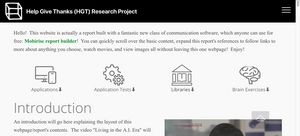
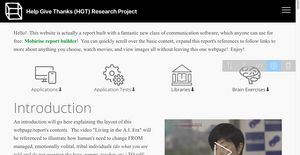
Finalization of initial website Part4

diff --git a/index.html b/index.html
@@ -29,7 +29,7 @@
   
 </head>
 <body>
-  <link rel="stylesheet" href="style.less" class="cid-rdIxrA1Ibr" id="menu1-52" data-rv-view="8603"><section class="menu cid-rdIxrA1Ibr" once="menu" id="menu1-52">
+  <link rel="stylesheet" href="style.less" class="cid-rdIxrA1Ibr" id="menu1-52" data-rv-view="4259"><section class="menu cid-rdIxrA1Ibr" once="menu" id="menu1-52">
 
     
 
@@ -183,17 +183,6 @@
     </div>
 </section>
 
-<section class="mbr-section article content1 cid-rdEfqWbhjN" id="content1-4e">
-    
-     
-
-    <div class="container">
-        <div class="media-container-row">
-            <div class="mbr-text col-14 col-md-12 mbr-fonts-style display-7"><p><br></p><p></p></div>
-        </div>
-    </div>
-</section>
-
 <section class="accordion1 cid-rh3vwFQ7qW" id="accordion1-88">
 
     
@@ -206,15 +195,15 @@
                     
                 </div>
                 <div class="clearfix"></div>
-                <div id="bootstrap-accordion_5" class="panel-group accordionStyles accordion" role="tablist" aria-multiselectable="true">
+                <div id="bootstrap-accordion_4" class="panel-group accordionStyles accordion" role="tablist" aria-multiselectable="true">
                     <div class="card">
                         <div class="card-header" role="tab" id="headingOne">
-                            <a role="button" class="panel-title collapsed text-black" data-toggle="collapse" data-core="" href="#collapse1_5" aria-expanded="false" aria-controls="collapse1">
+                            <a role="button" class="panel-title collapsed text-black" data-toggle="collapse" data-core="" href="#collapse1_4" aria-expanded="false" aria-controls="collapse1">
                                 <h4 class="mbr-fonts-style display-5">
                                     <span class="mbr-iconfont fa-arrow-circle-right fa inactive" style="font-size: 1.3rem; padding=0px;"></span>&nbsp;References</h4>
                             </a>
                         </div>
-                        <div id="collapse1_5" class="panel-collapse noScroll collapse " role="tabpanel" aria-labelledby="headingOne" data-parent="#bootstrap-accordion_5">
+                        <div id="collapse1_4" class="panel-collapse noScroll collapse " role="tabpanel" aria-labelledby="headingOne" data-parent="#bootstrap-accordion_4">
                             <div class="panel-body p-0">
                                 <p class="mbr-fonts-style panel-text display-7">Reference to be created...</p>
                             </div>
@@ -311,15 +300,15 @@
                     
                 </div>
                 <div class="clearfix"></div>
-                <div id="bootstrap-accordion_45" class="panel-group accordionStyles accordion" role="tablist" aria-multiselectable="true">
+                <div id="bootstrap-accordion_10" class="panel-group accordionStyles accordion" role="tablist" aria-multiselectable="true">
                     <div class="card">
                         <div class="card-header" role="tab" id="headingOne">
-                            <a role="button" class="panel-title collapsed text-black" data-toggle="collapse" data-core="" href="#collapse1_45" aria-expanded="false" aria-controls="collapse1">
+                            <a role="button" class="panel-title collapsed text-black" data-toggle="collapse" data-core="" href="#collapse1_10" aria-expanded="false" aria-controls="collapse1">
                                 <h4 class="mbr-fonts-style display-5">
                                     <span class="mbr-iconfont fa-arrow-circle-right fa inactive" style="font-size: 1.3rem; padding=0px;"></span>&nbsp;References</h4>
                             </a>
                         </div>
-                        <div id="collapse1_45" class="panel-collapse noScroll collapse " role="tabpanel" aria-labelledby="headingOne" data-parent="#bootstrap-accordion_45">
+                        <div id="collapse1_10" class="panel-collapse noScroll collapse " role="tabpanel" aria-labelledby="headingOne" data-parent="#bootstrap-accordion_10">
                             <div class="panel-body p-0">
                                 <p class="mbr-fonts-style panel-text display-7">Mitra, Sugata (2013 February). Build a School in the Cloud [Web Video]. YoutTube. Time 0:22:32. TED. Copyright 2013 by the Publisher. CC By NC ND 3.0 — Creative Commons Attribution-NonCommercial-NoDerivs 3.0 Unported. Retrieved 4/31/2019 from https://www.youtube.com/watch?v=y3jYVe1RGaU</p>
                             </div>
@@ -416,15 +405,15 @@
                     
                 </div>
                 <div class="clearfix"></div>
-                <div id="bootstrap-accordion_15" class="panel-group accordionStyles accordion" role="tablist" aria-multiselectable="true">
+                <div id="bootstrap-accordion_14" class="panel-group accordionStyles accordion" role="tablist" aria-multiselectable="true">
                     <div class="card">
                         <div class="card-header" role="tab" id="headingOne">
-                            <a role="button" class="panel-title collapsed text-black" data-toggle="collapse" data-core="" href="#collapse1_15" aria-expanded="false" aria-controls="collapse1">
+                            <a role="button" class="panel-title collapsed text-black" data-toggle="collapse" data-core="" href="#collapse1_14" aria-expanded="false" aria-controls="collapse1">
                                 <h4 class="mbr-fonts-style display-5">
                                     <span class="mbr-iconfont fa-arrow-circle-right fa inactive" style="font-size: 1.3rem;"></span>&nbsp;References</h4>
                             </a>
                         </div>
-                        <div id="collapse1_15" class="panel-collapse noScroll collapse " role="tabpanel" aria-labelledby="headingOne" data-parent="#bootstrap-accordion_15">
+                        <div id="collapse1_14" class="panel-collapse noScroll collapse " role="tabpanel" aria-labelledby="headingOne" data-parent="#bootstrap-accordion_14">
                             <div class="panel-body p-0">
                                 <p class="mbr-fonts-style panel-text display-7">Lidsky, Isaac (2016 June). What reality are you creating for yourself? [Web Video]. TEDTalks. Time 0:11:27. TED. Copyright 2016 by the Publisher. CC By NC ND 4.0 — Creative Commons Attribution-NonCommercial-NoDerivatives 4.0 International. Retrieved 8/13/2018 from https://www.ted.com/talks/isaac_lidsky_what_reality_are_you_creating_for_yourself/discussion#t-7709<br><br>Matson, David (2013, April 17). Remix of Walter Freeman's Poetry of Brains Talk v5  [Web Video]. YouTube.  Time 0:46:30.  Copyright 2013 by the Author. CC By SA 3.0 — Creative Commons Attribution-ShareAlike 3.0 Unported. Retrieved 6/30/2012 from https://www.youtube.com/watch?v=o_x2RVnlTZs<br><br>Reference to be created ...&nbsp;<br><br>Seth, Anil (2017 April). Your brain hallucinates your conscious reality [Web Video]. TEDTalks.  Time 0:17:00.  TED. Copyright 2009 by the Publisher. CC By NC ND 3.0 — Creative Commons Attribution-NonCommercial-NoDerivs 3.0 Unported. Retrieved 7/23/2018 from https://www.ted.com/talks/anil_seth_how_your_brain_hallucinates_your_conscious_reality &nbsp;<br><br>Visser, Margaret  (2008). The Gift of Thanks [Web Video]. TVO | Big Ideas.  Time 0:52:27.  Ontario Educational Communications Authority (TVO). Copyright 2008 by the Publisher. © All rights reserved. Retrieved 11/13/2014 from http://podcasts.tvo.org/bi/video/BI_Full_20081220_834111_MargaretVisser_320x240_304k.mp4&nbsp;</p>
                             </div>
@@ -598,15 +587,15 @@
                     
                 </div>
                 <div class="clearfix"></div>
-                <div id="bootstrap-accordion_22" class="panel-group accordionStyles accordion" role="tablist" aria-multiselectable="true">
+                <div id="bootstrap-accordion_21" class="panel-group accordionStyles accordion" role="tablist" aria-multiselectable="true">
                     <div class="card">
                         <div class="card-header" role="tab" id="headingOne">
-                            <a role="button" class="panel-title collapsed text-black" data-toggle="collapse" data-core="" href="#collapse1_22" aria-expanded="false" aria-controls="collapse1">
+                            <a role="button" class="panel-title collapsed text-black" data-toggle="collapse" data-core="" href="#collapse1_21" aria-expanded="false" aria-controls="collapse1">
                                 <h4 class="mbr-fonts-style display-5">
                                     <span class="mbr-iconfont fa-arrow-circle-right fa inactive" style="font-size: 1.3rem; padding=0px;"></span>&nbsp;References</h4>
                             </a>
                         </div>
-                        <div id="collapse1_22" class="panel-collapse noScroll collapse " role="tabpanel" aria-labelledby="headingOne" data-parent="#bootstrap-accordion_22">
+                        <div id="collapse1_21" class="panel-collapse noScroll collapse " role="tabpanel" aria-labelledby="headingOne" data-parent="#bootstrap-accordion_21">
                             <div class="panel-body p-0">
                                 <p class="mbr-fonts-style panel-text display-7">Matson, David (2019, March 26). Help Give Thanks App Overview [Web Video]. YouTube. Time 0:14:29. Copyright 2019 by the Author. CC By 4.0 — Creative Commons Attribution 4.0 International. Retrieved 4/26/2019 from https://youtu.be/OP95jD-Y0Ew</p>
                             </div>
@@ -1034,7 +1023,7 @@
                     <a href="index.html#features5-7g"><span class="mbr-iconfont mbri-setting" style="color: rgb(159, 159, 159); fill: rgb(159, 159, 159); font-size: 55px;"></span></a>
                 </div>
                 <div class="card-box">
-                    <h4 class="card-title py-0 mbr-fonts-style display-4"><a href="index.html#features5-74" class="text-danger"></a><a href="index.html#features5-7g">Application Tests⬇</a></h4>
+                    <h4 class="card-title py-0 mbr-fonts-style display-4"><a href="index.html#features5-74" class="text-danger"></a><a href="index.html#features5-7g" class="text-danger">Application Tests⬇</a></h4>
                     
                 </div>
             </div>
@@ -1108,7 +1097,7 @@
 
     <div class="container">
         <div class="media-container-row">
-            <div class="mbr-text col-14 col-md-12 mbr-fonts-style display-7"><p><span style="font-size: 1.1rem;">The patio garden (shown above) was one project used to test almost all the apps: Action Generator <em>(personal time and task documentation)</em>, Bug Genie <em>(project coordination/planning)</em>, Feng <em>(task progress communication)</em>, Piwigo (<em>task photo documentation)</em>, and SketchUp <em>(3d modeling)</em>. &nbsp;As time permits, more projects listed below will be featured like the patio above, and in much greater detail, to demonstrate how the apps where used to increase the quantity and quality of work that can be accomplish with the aid of these task planning, communication, documentation, illustration, etc. apps.</span><br></p></div>
+            <div class="mbr-text col-14 col-md-12 mbr-fonts-style display-7"><p><span style="font-size: 1.1rem;">The patio garden (shown above) was one project used to test almost all the apps: Action Generator <em>(personal time and task documentation)</em>, Bug Genie <em>(project coordination/planning)</em>, Feng <em>(task progress communication)</em>, Piwigo (<em>task photo documentation)</em>, and SketchUp <em>(3d modeling)</em>. &nbsp;As time permits, more projects listed below will be featured like the patio above, and in much greater detail, to demonstrate how the apps where used to increase the quantity and quality of work that can be accomplished with the aid of these task planning, communication, documentation, illustration, etc. apps.</span><br></p></div>
         </div>
     </div>
 </section>
@@ -1307,7 +1296,7 @@
 
     
     <div class="container">
-        <div><!-- Filter --><!-- Gallery --><div class="mbr-gallery-row"><div class="mbr-gallery-layout-default"><div><div><div class="mbr-gallery-item mbr-gallery-item--p1 video-slide" data-video-url="https://youtu.be/-2_knDHDqSI" data-tags="Responsive"><div href="#lb-gallery1-4t" data-slide-to="0" data-toggle="modal"><div></div><img alt="" src="assets/images/mobirise2019225-205592019-2-2-9-30-34.jpg"><span class="icon-video"></span><span class="mbr-gallery-title mbr-fonts-style display-2">Part 1 |&nbsp;14:29</span></div></div><div class="mbr-gallery-item mbr-gallery-item--p1 video-slide" data-video-url="https://youtu.be/_ORgT6pyNkU" data-tags="Responsive"><div href="#lb-gallery1-4t" data-slide-to="1" data-toggle="modal"><div></div><img alt="" src="assets/images/mobirise2019225-205592019-2-2-8-56-14.jpg"><span class="icon-video"></span><span class="mbr-gallery-title mbr-fonts-style display-2">2 | 2:35</span></div></div><div class="mbr-gallery-item mbr-gallery-item--p1 video-slide" data-video-url="https://youtu.be/4hMI1_3ZG5s" data-tags="Animated"><div href="#lb-gallery1-4t" data-slide-to="2" data-toggle="modal"><div></div><img alt="" src="assets/images/mobirise2019225-205592019-2-2-8-55-17.jpg"><span class="icon-video"></span><span class="mbr-gallery-title mbr-fonts-style display-2">3 | 5:54</span></div></div><div class="mbr-gallery-item mbr-gallery-item--p1 video-slide" data-video-url="https://youtu.be/l0MQ6etk-nE" data-tags="Animated"><div href="#lb-gallery1-4t" data-slide-to="3" data-toggle="modal"><div></div><img alt="" src="assets/images/mobirise2019225-205592019-2-2-8-53-59.jpg"><span class="icon-video"></span><span class="mbr-gallery-title mbr-fonts-style display-2">4 | 2:59</span></div></div><div class="mbr-gallery-item mbr-gallery-item--p1 video-slide" data-video-url="https://youtu.be/dmaa3S-Uttc" data-tags="Responsive"><div href="#lb-gallery1-4t" data-slide-to="4" data-toggle="modal"><div></div><img alt="" src="assets/images/mobirise2019225-205592019-2-2-8-47-56.jpg"><span class="icon-video"></span><span class="mbr-gallery-title mbr-fonts-style display-2">5 | 4:29</span></div></div><div class="mbr-gallery-item mbr-gallery-item--p1 video-slide" data-video-url="https://youtu.be/-2_knDHDqSI" data-tags="Awesome"><div href="#lb-gallery1-4t" data-slide-to="5" data-toggle="modal"><div></div><img alt="" src="assets/images/mobirise2019225-205592019-2-2-9-30-34.jpg"><span class="icon-video"></span><span class="mbr-gallery-title mbr-fonts-style display-7">6 | 5:44</span></div></div><div class="mbr-gallery-item mbr-gallery-item--p1 video-slide" data-video-url="https://youtu.be/_ORgT6pyNkU" data-tags="Responsive"><div href="#lb-gallery1-4t" data-slide-to="6" data-toggle="modal"><div></div><img alt="" src="assets/images/mobirise2019225-205592019-2-2-8-56-14.jpg"><span class="icon-video"></span><span class="mbr-gallery-title mbr-fonts-style display-2">Part 2 |&nbsp;2:35</span></div></div></div></div><div class="clearfix"></div></div></div><!-- Lightbox --><div data-app-prevent-settings="" class="mbr-slider modal fade carousel slide" tabindex="-1" data-keyboard="true" data-interval="false" id="lb-gallery1-4t"><div class="modal-dialog"><div class="modal-content"><div class="modal-body"><div class="carousel-inner"><div class="carousel-item active video-container"><img src="assets/images/gallery06.jpg" alt="" title=""></div><div class="carousel-item video-container"><img src="assets/images/mobirise201905-032362019-0-6-0-54-58.jpg" alt="" title=""></div><div class="carousel-item video-container"><img src="assets/images/gallery07.jpg" alt="" title=""></div><div class="carousel-item video-container"><img src="assets/images/gallery07.jpg" alt="" title=""></div><div class="carousel-item video-container"><img src="assets/images/gallery06.jpg" alt="" title=""></div><div class="carousel-item video-container"><img src="assets/images/gallery05.jpg" alt="" title=""></div><div class="carousel-item video-container"><img src="assets/images/mobirise2019225-205592019-2-2-8-56-14.jpg" alt="" title=""></div></div><a class="carousel-control carousel-control-prev" role="button" data-slide="prev" href="#lb-gallery1-4t"><span class="mbri-left mbr-iconfont" aria-hidden="true"></span><span class="sr-only">Previous</span></a><a class="carousel-control carousel-control-next" role="button" data-slide="next" href="#lb-gallery1-4t"><span class="mbri-right mbr-iconfont" aria-hidden="true"></span><span class="sr-only">Next</span></a><a class="close" href="#" role="button" data-dismiss="modal"><span class="sr-only">Close</span></a></div></div></div></div></div>
+        <div><!-- Filter --><!-- Gallery --><div class="mbr-gallery-row"><div class="mbr-gallery-layout-default"><div><div><div class="mbr-gallery-item mbr-gallery-item--p1 video-slide" data-video-url="https://youtu.be/-2_knDHDqSI" data-tags="Responsive"><div href="#lb-gallery1-4t" data-slide-to="0" data-toggle="modal"><div></div><img alt="" src="assets/images/mobirise2019225-205592019-2-2-9-30-34.jpg"><span class="icon-video"></span><span class="mbr-gallery-title mbr-fonts-style display-2">Part 1 |&nbsp;14:29</span></div></div><div class="mbr-gallery-item mbr-gallery-item--p1 video-slide" data-video-url="https://youtu.be/_ORgT6pyNkU" data-tags="Responsive"><div href="#lb-gallery1-4t" data-slide-to="1" data-toggle="modal"><div></div><img alt="" src="assets/images/mobirise2019225-205592019-2-2-8-56-14.jpg"><span class="icon-video"></span><span class="mbr-gallery-title mbr-fonts-style display-2">2 | 2:35</span></div></div><div class="mbr-gallery-item mbr-gallery-item--p1 video-slide" data-video-url="https://youtu.be/4hMI1_3ZG5s" data-tags="Animated"><div href="#lb-gallery1-4t" data-slide-to="2" data-toggle="modal"><div></div><img alt="" src="assets/images/mobirise2019225-205592019-2-2-8-55-17.jpg"><span class="icon-video"></span><span class="mbr-gallery-title mbr-fonts-style display-2">3 | 5:54</span></div></div><div class="mbr-gallery-item mbr-gallery-item--p1 video-slide" data-video-url="https://youtu.be/l0MQ6etk-nE" data-tags="Animated"><div href="#lb-gallery1-4t" data-slide-to="3" data-toggle="modal"><div></div><img alt="" src="assets/images/mobirise2019225-205592019-2-2-8-53-59.jpg"><span class="icon-video"></span><span class="mbr-gallery-title mbr-fonts-style display-2">4 | 2:59</span></div></div><div class="mbr-gallery-item mbr-gallery-item--p1 video-slide" data-video-url="https://youtu.be/dmaa3S-Uttc" data-tags="Responsive"><div href="#lb-gallery1-4t" data-slide-to="4" data-toggle="modal"><div></div><img alt="" src="assets/images/mobirise2019225-205592019-2-2-8-47-56.jpg"><span class="icon-video"></span><span class="mbr-gallery-title mbr-fonts-style display-2">5 | 4:29</span></div></div><div class="mbr-gallery-item mbr-gallery-item--p1 video-slide" data-video-url="https://youtu.be/aG-s8buQkVo" data-tags="Awesome"><div href="#lb-gallery1-4t" data-slide-to="5" data-toggle="modal"><div></div><img alt="" src="assets/images/mobirise2019225-205592019-2-2-8-58-46.jpg"><span class="icon-video"></span><span class="mbr-gallery-title mbr-fonts-style display-7">6 | 5:44</span></div></div></div></div><div class="clearfix"></div></div></div><!-- Lightbox --><div data-app-prevent-settings="" class="mbr-slider modal fade carousel slide" tabindex="-1" data-keyboard="true" data-interval="false" id="lb-gallery1-4t"><div class="modal-dialog"><div class="modal-content"><div class="modal-body"><div class="carousel-inner"><div class="carousel-item video-container"><img src="assets/images/gallery06.jpg" alt="" title=""></div><div class="carousel-item video-container"><img src="assets/images/mobirise201905-032362019-0-6-0-54-58.jpg" alt="" title=""></div><div class="carousel-item video-container"><img src="assets/images/gallery07.jpg" alt="" title=""></div><div class="carousel-item video-container"><img src="assets/images/gallery07.jpg" alt="" title=""></div><div class="carousel-item active video-container"><img src="assets/images/gallery06.jpg" alt="" title=""></div><div class="carousel-item video-container"><img src="assets/images/screen-shot-2019-04-28-at-4.16.52-pm-2000x1250.png" alt="" title=""></div></div><a class="carousel-control carousel-control-prev" role="button" data-slide="prev" href="#lb-gallery1-4t"><span class="mbri-left mbr-iconfont" aria-hidden="true"></span><span class="sr-only">Previous</span></a><a class="carousel-control carousel-control-next" role="button" data-slide="next" href="#lb-gallery1-4t"><span class="mbri-right mbr-iconfont" aria-hidden="true"></span><span class="sr-only">Next</span></a><a class="close" href="#" role="button" data-dismiss="modal"><span class="sr-only">Close</span></a></div></div></div></div></div>
     </div>
 </section>
 
@@ -1323,15 +1312,15 @@
                     
                 </div>
                 <div class="clearfix"></div>
-                <div id="bootstrap-accordion_35" class="panel-group accordionStyles accordion" role="tablist" aria-multiselectable="true">
+                <div id="bootstrap-accordion_34" class="panel-group accordionStyles accordion" role="tablist" aria-multiselectable="true">
                     <div class="card">
                         <div class="card-header" role="tab" id="headingOne">
-                            <a role="button" class="panel-title collapsed text-black" data-toggle="collapse" data-core="" href="#collapse1_35" aria-expanded="false" aria-controls="collapse1">
+                            <a role="button" class="panel-title collapsed text-black" data-toggle="collapse" data-core="" href="#collapse1_34" aria-expanded="false" aria-controls="collapse1">
                                 <h4 class="mbr-fonts-style display-5">
                                     <span class="mbr-iconfont fa-arrow-circle-right fa inactive" style="font-size: 1.3rem; padding=0px;"></span>&nbsp;References</h4>
                             </a>
                         </div>
-                        <div id="collapse1_35" class="panel-collapse noScroll collapse " role="tabpanel" aria-labelledby="headingOne" data-parent="#bootstrap-accordion_35">
+                        <div id="collapse1_34" class="panel-collapse noScroll collapse " role="tabpanel" aria-labelledby="headingOne" data-parent="#bootstrap-accordion_34">
                             <div class="panel-body p-0">
                                 <p class="mbr-fonts-style panel-text display-7">Matson, David (2019, March 26). Library App Overview, Part 1 of 6  [Web Video]. YouTube.  Time 0:14:29.  Copyright 2018 by the Author. CC By 4.0 — Creative Commons Attribution 4.0 International. Retrieved 4/26/2019 from https://youtu.be/-2_knDHDqSI<br><br>Matson, David (2019, March 26). Library App Overview, Part 2 of 6 [Web Video]. YouTube. Time 0:2:35. Copyright 2018 by the Author. CC By 4.0 — Creative Commons Attribution 4.0 International. Retrieved 4/26/2019 from https://youtu.be/_ORgT6pyNkU<br><br>Matson, David (2019, March 26). Library App Overview, Part 3 of 6 [Web Video]. YouTube. Time 0:5:54. Copyright 2018 by the Author. CC By 4.0 — Creative Commons Attribution 4.0 International. Retrieved 4/26/2019 from https://youtu.be/4hMI1_3ZG5s<br><br>Matson, David (2019, March 26). Library App Overview, Part 4 of 6 [Web Video]. YouTube. Time 0:2:59. Copyright 2018 by the Author. CC By 4.0 — Creative Commons Attribution 4.0 International. Retrieved 4/26/2019 from https://youtu.be/l0MQ6etk-nE<br><br>Matson, David (2019, March 26). Library App Overview, Part 5 of 6 [Web Video]. YouTube. Time 0:4:29. Copyright 2018 by the Author. CC By 4.0 — Creative Commons Attribution 4.0 International. Retrieved 4/26/2019 from https://youtu.be/dmaa3S-Uttc<br><br>Matson, David (2019, March 26). Library App Overview, Part 6 of 6 [Web Video]. YouTube. Time 0:5:44. Copyright 2018 by the Author. CC By 4.0 — Creative Commons Attribution 4.0 International. Retrieved 4/26/2019 from https://youtu.be/aG-s8buQkVo<br></p>
                             </div>
@@ -1542,15 +1531,15 @@
                     
                 </div>
                 <div class="clearfix"></div>
-                <div id="bootstrap-accordion_42" class="panel-group accordionStyles accordion" role="tablist" aria-multiselectable="true">
+                <div id="bootstrap-accordion_41" class="panel-group accordionStyles accordion" role="tablist" aria-multiselectable="true">
                     <div class="card">
                         <div class="card-header" role="tab" id="headingOne">
-                            <a role="button" class="panel-title collapsed text-black" data-toggle="collapse" data-core="" href="#collapse1_42" aria-expanded="false" aria-controls="collapse1">
+                            <a role="button" class="panel-title collapsed text-black" data-toggle="collapse" data-core="" href="#collapse1_41" aria-expanded="false" aria-controls="collapse1">
                                 <h4 class="mbr-fonts-style display-5">
                                     <span class="mbr-iconfont fa-arrow-circle-right fa inactive" style="font-size: 1.3rem; padding=0px;"></span>&nbsp;References</h4>
                             </a>
                         </div>
-                        <div id="collapse1_42" class="panel-collapse noScroll collapse " role="tabpanel" aria-labelledby="headingOne" data-parent="#bootstrap-accordion_42">
+                        <div id="collapse1_41" class="panel-collapse noScroll collapse " role="tabpanel" aria-labelledby="headingOne" data-parent="#bootstrap-accordion_41">
                             <div class="panel-body p-0">
                                 <p class="mbr-fonts-style panel-text display-7">Alston, Bill (narrator); Matson, David (writer and editor); Matson, Doug (music composer and performer) (2013, June 14). The Space Walk Movie [Web Video]. Version 2.  Time 0:14:22.  Copyright 2008 - 2013 by the Author. © All rights reserved. Retrieved 6/30/2013 from https://www.youtube.com/watch?v=z8y4uolMY9U  
 keywords: balance and scholarship, education, literacy, potential neglect<br><br>Perron, Paula J (2015). The Total Learning Foundation Program: Sensory-motor (body) and cognitive (self) control activities for 5 to 100 year-olds. Version 2.1 [PDF Book]. www.HelpFreeIntelligence.org.  Copyright 2014 by the Author. CC By NC SA 3.0 — Creative Commons Attribution-NonCommercial-ShareAlike 3.0 Unported. Retrieved 5/5/2014 from http://HelpFreeIntelligence.org</p>

diff --git a/assets/theme/js/script.js b/assets/theme/js/script.js
@@ -17,9 +17,10 @@
         var $this = $(this);
         var $prev = $this.prev();
         var $win = $(window);
+        var isIE = false || !!document.documentMode;
 
         function initReveal() {
-            if ($this.outerHeight() <= $win.outerHeight()) {
+            if (!isIE && $this.outerHeight() <= $win.outerHeight()) {
                 $this.css({
                     'z-index': -999,
                     position: 'fixed',

diff --git a/assets/mobirise/css/mbr-additional.css b/assets/mobirise/css/mbr-additional.css
@@ -1435,21 +1435,6 @@ body {
   text-align: left;
   padding: 0px 7px;
 }
-.cid-rdEfqWbhjN {
-  padding-top: 0px;
-  padding-bottom: 0px;
-  background-color: #f9f9f9;
-}
-.cid-rdEfqWbhjN .col-14 {
-  padding: 0px 7px;
-}
-.cid-rdEfqWbhjN .mbr-text,
-.cid-rdEfqWbhjN blockquote {
-  color: #767676;
-}
-.cid-rdEfqWbhjN .mbr-text {
-  color: #434343;
-}
 .cid-rh3vwFQ7qW {
   padding-top: 0px;
   padding-bottom: 15px;

diff --git a/assets/theme/css/style.css b/assets/theme/css/style.css
@@ -430,7 +430,10 @@ nav .mbr-section-btn {
 .navbar-collapse {
   -webkit-flex-basis: 100%;
   -webkit-flex-grow: 1;
-  -webkit-align-items: center; }
+  -webkit-align-items: center;
+  max-height: 93.5vh; }
+  .navbar-collapse.show {
+    overflow: auto; }
 
 .nav-dropdown .link {
   padding: .667em 1.667em !important;
